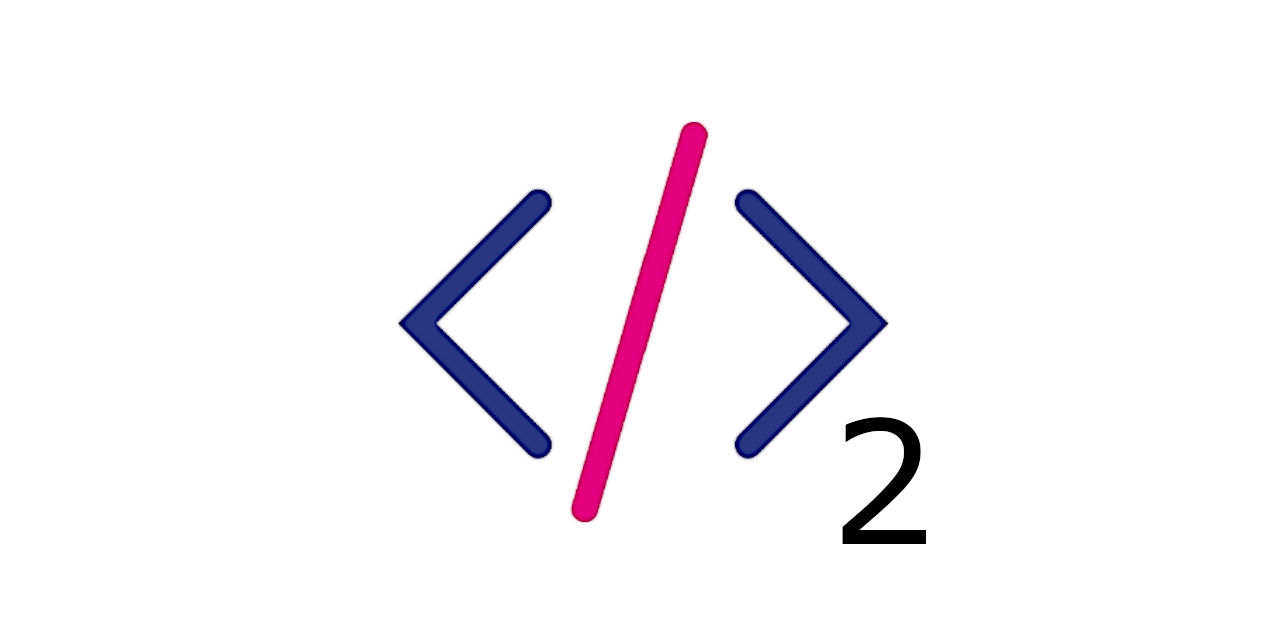
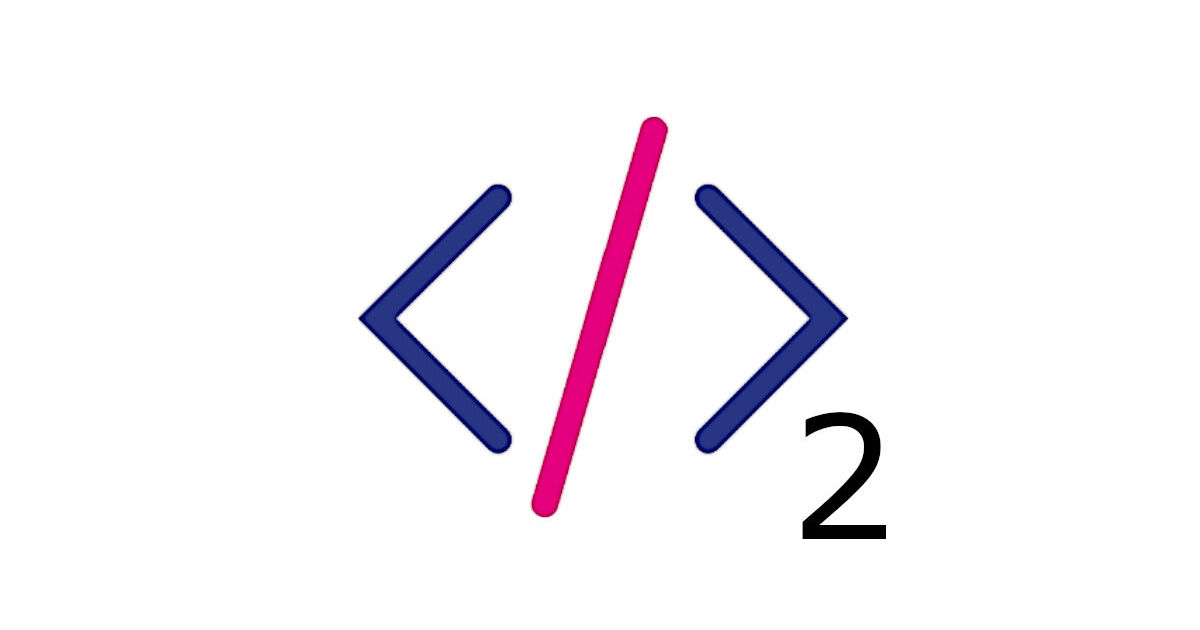
deploy: 92d0277676dddbe33116f37bbe91f00d559ef674

Changed region(s): [[0.4933, 0.181, 0.74, 0.8746], [0.2775, 0.2714, 0.4933, 0.8444], [0.4933, 0.4222, 0.5242, 0.4825]]

diff --git a/metadata/index.html b/metadata/index.html
@@ -1,0 +1,95 @@
+<!DOCTYPE html>
+<html lang="cs">
+	<head>
+		<meta charset="UTF-8">
+		<meta name="viewport" content="width=device-width, initial-scale=1.0">
+		<base href="/HTML-a-CSS-2/">
+		<title>
+			HTML a CSS 2
+		</title>
+		<meta name="description" content="Podklady pro online kurz HTML a CSS 2 od Czechitas.">
+		<link rel="stylesheet" href="static/main.css">
+		<link rel="icon" type="image/png" href="static/favicon.png" sizes="64x64">
+		<link href="https://unpkg.com/prismjs@1.20.0/themes/prism-okaidia.css" rel="stylesheet">
+		<meta property="og:image" content="https://czechitas-podklady-web.github.io/HTML-a-CSS-2/static/og-image.jpg"/>
+		<meta property="og:image:width" content="1200"/>
+		<meta property="og:image:height" content="630"/>
+	</head>
+	<body>
+		<div class="layout">
+			<header class="header">
+				<h1>
+					<a href="" class="header__link">
+						<img src="static/logo.png" width="206" height="60" alt="logo Czechitas">
+						<span>HTML a CSS 2</span>
+					</a>
+				</h1>
+			</header>
+			<main>
+				<h1>Metadata</h1>
+<p>Do hlavičky <code>&lt;head&gt;</code> přidáváme mimo jiné různé doprovodné informace, které slouží pro lepší prezentaci stránky mimo viewport, který zobrazuje obsah <code>&lt;body&gt;</code>.</p>
+<h2>Název</h2>
+<p>Hlavní text, který se ukazuje ve výsledcích vyhledávání, při sdílení, v záložkách.</p>
+<pre class="language-html"><code class="language-html"><span class="token tag"><span class="token tag"><span class="token punctuation">&lt;</span>title</span><span class="token punctuation">></span></span>Název webu<span class="token tag"><span class="token tag"><span class="token punctuation">&lt;/</span>title</span><span class="token punctuation">></span></span></code></pre>
+<h2>Favicon</h2>
+<p>Malá ikonka ukazující se vedle názvu.</p>
+<pre class="language-html"><code class="language-html"><span class="token tag"><span class="token tag"><span class="token punctuation">&lt;</span>link</span> <span class="token attr-name">rel</span><span class="token attr-value"><span class="token punctuation attr-equals">=</span><span class="token punctuation">"</span>shortcut icon<span class="token punctuation">"</span></span> <span class="token attr-name">href</span><span class="token attr-value"><span class="token punctuation attr-equals">=</span><span class="token punctuation">"</span>favicon.ico<span class="token punctuation">"</span></span> <span class="token attr-name">type</span><span class="token attr-value"><span class="token punctuation attr-equals">=</span><span class="token punctuation">"</span>image/x-icon<span class="token punctuation">"</span></span> <span class="token punctuation">/></span></span></code></pre>
+<p>Moderní prohlížeče pro favicon podporují už i <a href="https://caniuse.com/link-icon-png">PNG</a> a některé dokonce <a href="https://caniuse.com/link-icon-svg">SVG</a>.</p>
+<h2>Popis</h2>
+<p>Stručné shrnutí obsahu webu. Ukazuje se při sdílení, v některých vyhledávačích.</p>
+<pre class="language-html"><code class="language-html"><span class="token tag"><span class="token tag"><span class="token punctuation">&lt;</span>meta</span> <span class="token attr-name">name</span><span class="token attr-value"><span class="token punctuation attr-equals">=</span><span class="token punctuation">"</span>description<span class="token punctuation">"</span></span> <span class="token attr-name">content</span><span class="token attr-value"><span class="token punctuation attr-equals">=</span><span class="token punctuation">"</span>Popis dlouhý přibližně 50 až 160 znaků.<span class="token punctuation">"</span></span> <span class="token punctuation">/></span></span></code></pre>
+<h2>Obrázek</h2>
+<p>Doprovodný obrázek pro sdílení. Doporučený poměr stran je <code>2:1</code>. Pro <a href="https://developers.facebook.com/docs/sharing/webmasters/images/">Facebook</a> pak rozlišení <code>1200 x 630</code>.</p>
+<pre class="language-html"><code class="language-html"><span class="token tag"><span class="token tag"><span class="token punctuation">&lt;</span>meta</span><br>	<span class="token attr-name">property</span><span class="token attr-value"><span class="token punctuation attr-equals">=</span><span class="token punctuation">"</span>og:image<span class="token punctuation">"</span></span><br>	<span class="token attr-name">content</span><span class="token attr-value"><span class="token punctuation attr-equals">=</span><span class="token punctuation">"</span>https://czechitas-podklady-web.github.io/HTML-a-CSS-2/static/og-image.jpg<span class="token punctuation">"</span></span><br><span class="token punctuation">/></span></span></code></pre>
+<p>Adresu obrázku je spolehlivější psát celou i s doménou a protokolem (<code>http*</code>). Některé sociální sítě, chatovací aplikace si bez toho obrázek neumí načíst. Aby se mohli rychleji přizpůsobit rozměrům obrázku, je vhodné předchozí meta tag doplnit ještě o dva doplňkové s rozměry.</p>
+<pre class="language-html"><code class="language-html"><span class="token tag"><span class="token tag"><span class="token punctuation">&lt;</span>meta</span> <span class="token attr-name">property</span><span class="token attr-value"><span class="token punctuation attr-equals">=</span><span class="token punctuation">"</span>og:image:width<span class="token punctuation">"</span></span> <span class="token attr-name">content</span><span class="token attr-value"><span class="token punctuation attr-equals">=</span><span class="token punctuation">"</span>1200<span class="token punctuation">"</span></span> <span class="token punctuation">/></span></span><br><span class="token tag"><span class="token tag"><span class="token punctuation">&lt;</span>meta</span> <span class="token attr-name">property</span><span class="token attr-value"><span class="token punctuation attr-equals">=</span><span class="token punctuation">"</span>og:image:height<span class="token punctuation">"</span></span> <span class="token attr-name">content</span><span class="token attr-value"><span class="token punctuation attr-equals">=</span><span class="token punctuation">"</span>630<span class="token punctuation">"</span></span> <span class="token punctuation">/></span></span></code></pre>
+<h2>Úkol na teď</h2>
+<ul>
+<li>
+<p>Přidej do projektu meta tagy pro lepší sdílení webu na sociálních sítích.</p>
+<ul>
+<li>
+<p>Pokračuj v libovolném projektu postaveném na Eleventy nasazeném na Netlify.</p>
+</li>
+<li>
+<p>Přichystej si obrázek pro <code>og:image</code>. Použij tvůj vlastní nebo si nějaký stáhni třeba na <a href="https://unsplash.com/">unsplash.com</a>.</p>
+</li>
+<li>
+<p>Ořízni ho do doporučených rozměrů. Pro ořez můžeš použít <a href="https://squoosh.app/">squoosh.app</a> nebo jiný editor.</p>
+</li>
+<li>
+<p>Do layoutu společného pro všechny stránky mezi značky <code>&lt;head&gt;</code> přidej odkaz na obrázek z kroků výše.</p>
+</li>
+<li>
+<p>Přidej ještě textový popis webu, <code>description</code>. Obsah vymysli vlastní vhodný pro konkrétní projekt nebo použij následující: <code>Zkušební popis webu pro otestování sdílení na sociálních sítích.</code></p>
+</li>
+</ul>
+</li>
+<li>
+<p>Změny commitni, pushni a počkej, až se nasadí.</p>
+</li>
+<li>
+<p>Otestuj, že se obrázek a popis při sdílení ukazuje.</p>
+<ul>
+<li>
+<p>Můžeš například na Facebooku pro test sdílet příspěvek, který uvidíš jenom ty. Po vyzkoušení ho klidně smaž. Nebo si ve zprávách pošli odkaz sama sobě.</p>
+<p><img src="static/screenshots/facebook-og-image.png" alt="Facebook og:image"></p>
+</li>
+<li>
+<p>Občas se stává, že při prvním sdílení se obrázek hned neukáže. Pokud je to tvůj případ, ověř, že ho Facebook najde alespoň v nástroji <a href="https://developers.facebook.com/tools/debug/">Sharing Debugger</a>.</p>
+</li>
+<li>
+<p>Pro znovunačtení nejaktuálnějších informací o tvém webu použij tlačítko <code>Scrape Again</code>. Hodí se v situaci, kdy obrázek při vývoji často měníš.</p>
+<p><img src="static/screenshots/facebook-scrape-again.png" alt="Facebook scrape again"></p>
+</li>
+</ul>
+</li>
+</ul>
+
+			</main>
+			<footer class="layout__footer">
+				© 2021 <a href="https://www.czechitas.cz/">Czechitas z.ú.</a>
+			</footer>
+		</div>
+	</body>
+</html>

diff --git a/data-v-eleventy-2/index.html b/data-v-eleventy-2/index.html
@@ -7,10 +7,13 @@
 		<title>
 			HTML a CSS 2
 		</title>
+		<meta name="description" content="Podklady pro online kurz HTML a CSS 2 od Czechitas.">
 		<link rel="stylesheet" href="static/main.css">
 		<link rel="icon" type="image/png" href="static/favicon.png" sizes="64x64">
 		<link href="https://unpkg.com/prismjs@1.20.0/themes/prism-okaidia.css" rel="stylesheet">
 		<meta property="og:image" content="https://czechitas-podklady-web.github.io/HTML-a-CSS-2/static/og-image.jpg"/>
+		<meta property="og:image:width" content="1200"/>
+		<meta property="og:image:height" content="630"/>
 	</head>
 	<body>
 		<div class="layout">
@@ -50,11 +53,6 @@
 <pre class="language-html"><code class="language-html"><span class="token tag"><span class="token tag"><span class="token punctuation">&lt;</span>div</span><span class="token punctuation">></span></span>Sci-Fi, Komedie, Romantický<span class="token tag"><span class="token tag"><span class="token punctuation">&lt;/</span>div</span><span class="token punctuation">></span></span><br><span class="token tag"><span class="token tag"><span class="token punctuation">&lt;</span>div</span><span class="token punctuation">></span></span>Sci-Fi / Komedie / Romantický<span class="token tag"><span class="token tag"><span class="token punctuation">&lt;/</span>div</span><span class="token punctuation">></span></span></code></pre>
 <h2>Další filtry</h2>
 <p>Všechny zabudované filtry do nunjucks jsou popsané v dokumentaci <a href="https://mozilla.github.io/nunjucks/templating.html#builtin-filters">zde</a>.</p>
-<h2>Podmínky</h2>
-<p>Pokud chceme na stránce vypsat kus HTML jen v případě, že platí nějaká podmínka, použijeme <code>{% if %}</code>.</p>
-<pre class="language-liquid"><code class="language-liquid"><span class="token liquid language-liquid"><span class="token delimiter punctuation">{%</span> <span class="token keyword">if</span> film<span class="token punctuation">.</span>rokNatoceni <span class="token operator">==</span> <span class="token number">2021</span> <span class="token delimiter punctuation">%}</span></span><br>	<span class="token tag"><span class="token tag"><span class="token punctuation">&lt;</span>div</span><span class="token punctuation">></span></span>Film byl natočen letos<span class="token tag"><span class="token tag"><span class="token punctuation">&lt;/</span>div</span><span class="token punctuation">></span></span><br><span class="token liquid language-liquid"><span class="token delimiter punctuation">{%</span> <span class="token keyword">endif</span> <span class="token delimiter punctuation">%}</span></span></code></pre>
-<p>Pokud chceme vypsat něco jiného v případě, že podmínka neplatí, doplníme zápis o větev <code>{% else %}</code>. Podmínku můžeme kombinovat i s filtry.</p>
-<pre class="language-liquid"><code class="language-liquid"><span class="token liquid language-liquid"><span class="token delimiter punctuation">{%</span> <span class="token keyword">if</span> filmy <span class="token operator">|</span> <span class="token function filter">length</span> <span class="token operator">></span> <span class="token number">0</span> <span class="token delimiter punctuation">%}</span></span><br>	<span class="token tag"><span class="token tag"><span class="token punctuation">&lt;</span>h2</span><span class="token punctuation">></span></span>Výpis filmů<span class="token tag"><span class="token tag"><span class="token punctuation">&lt;/</span>h2</span><span class="token punctuation">></span></span><br>	<span class="token tag"><span class="token tag"><span class="token punctuation">&lt;</span>ul</span><span class="token punctuation">></span></span><br>		<span class="token liquid language-liquid"><span class="token delimiter punctuation">{%</span> <span class="token keyword">for</span> film <span class="token keyword">in</span> filmy <span class="token delimiter punctuation">%}</span></span><br>			<span class="token tag"><span class="token tag"><span class="token punctuation">&lt;</span>li</span><span class="token punctuation">></span></span><br>				<span class="token liquid language-liquid"><span class="token delimiter punctuation">{{</span> film<span class="token punctuation">.</span>nazev <span class="token delimiter punctuation">}}</span></span><br>			<span class="token tag"><span class="token tag"><span class="token punctuation">&lt;/</span>li</span><span class="token punctuation">></span></span><br>		<span class="token liquid language-liquid"><span class="token delimiter punctuation">{%</span> <span class="token keyword">endfor</span> <span class="token delimiter punctuation">%}</span></span><br>	<span class="token tag"><span class="token tag"><span class="token punctuation">&lt;/</span>ul</span><span class="token punctuation">></span></span><br><span class="token liquid language-liquid"><span class="token delimiter punctuation">{%</span> <span class="token keyword">else</span> <span class="token delimiter punctuation">%}</span></span><br>	<span class="token tag"><span class="token tag"><span class="token punctuation">&lt;</span>div</span><span class="token punctuation">></span></span>V kolekci není ani jedna položka.<span class="token tag"><span class="token tag"><span class="token punctuation">&lt;/</span>div</span><span class="token punctuation">></span></span><br><span class="token liquid language-liquid"><span class="token delimiter punctuation">{%</span> <span class="token keyword">endif</span> <span class="token delimiter punctuation">%}</span></span></code></pre>
 <h2>Přejmenování proměnné</h2>
 <p>Pomocí <code>{% set %}</code> můžeme vytvářet nové proměnné, které dokonce můžou vycházet z již existujících.</p>
 <pre class="language-liquid"><code class="language-liquid"><span class="token liquid language-liquid"><span class="token delimiter punctuation">{%</span> set nejoblibenejsiCislo <span class="token operator">=</span> <span class="token number">12</span> <span class="token delimiter punctuation">%}</span></span><br><span class="token tag"><span class="token tag"><span class="token punctuation">&lt;</span>div</span><span class="token punctuation">></span></span>Nejoblíbenější číslo je: <span class="token liquid language-liquid"><span class="token delimiter punctuation">{{</span> nejoblibenejsiCislo <span class="token delimiter punctuation">}}</span></span><span class="token tag"><span class="token tag"><span class="token punctuation">&lt;/</span>div</span><span class="token punctuation">></span></span><br><br><span class="token liquid language-liquid"><span class="token delimiter punctuation">{%</span> set filmy <span class="token operator">=</span> noveFilmy <span class="token delimiter punctuation">%}</span></span><br><span class="token tag"><span class="token tag"><span class="token punctuation">&lt;</span>h2</span><span class="token punctuation">></span></span>Nové filmy<span class="token tag"><span class="token tag"><span class="token punctuation">&lt;/</span>h2</span><span class="token punctuation">></span></span><br><span class="token tag"><span class="token tag"><span class="token punctuation">&lt;</span>ul</span><span class="token punctuation">></span></span><br>	<span class="token liquid language-liquid"><span class="token delimiter punctuation">{%</span> <span class="token keyword">for</span> film <span class="token keyword">in</span> filmy <span class="token delimiter punctuation">%}</span></span><br>		<span class="token tag"><span class="token tag"><span class="token punctuation">&lt;</span>li</span><span class="token punctuation">></span></span><br>			<span class="token liquid language-liquid"><span class="token delimiter punctuation">{{</span> film <span class="token delimiter punctuation">}}</span></span><br>		<span class="token tag"><span class="token tag"><span class="token punctuation">&lt;/</span>li</span><span class="token punctuation">></span></span><br>	<span class="token liquid language-liquid"><span class="token delimiter punctuation">{%</span> <span class="token keyword">endfor</span> <span class="token delimiter punctuation">%}</span></span><br><span class="token tag"><span class="token tag"><span class="token punctuation">&lt;/</span>ul</span><span class="token punctuation">></span></span></code></pre>

diff --git a/nunjucks-podminky/index.html b/nunjucks-podminky/index.html
@@ -1,0 +1,43 @@
+<!DOCTYPE html>
+<html lang="cs">
+	<head>
+		<meta charset="UTF-8">
+		<meta name="viewport" content="width=device-width, initial-scale=1.0">
+		<base href="/HTML-a-CSS-2/">
+		<title>
+			HTML a CSS 2
+		</title>
+		<meta name="description" content="Podklady pro online kurz HTML a CSS 2 od Czechitas.">
+		<link rel="stylesheet" href="static/main.css">
+		<link rel="icon" type="image/png" href="static/favicon.png" sizes="64x64">
+		<link href="https://unpkg.com/prismjs@1.20.0/themes/prism-okaidia.css" rel="stylesheet">
+		<meta property="og:image" content="https://czechitas-podklady-web.github.io/HTML-a-CSS-2/static/og-image.jpg"/>
+		<meta property="og:image:width" content="1200"/>
+		<meta property="og:image:height" content="630"/>
+	</head>
+	<body>
+		<div class="layout">
+			<header class="header">
+				<h1>
+					<a href="" class="header__link">
+						<img src="static/logo.png" width="206" height="60" alt="logo Czechitas">
+						<span>HTML a CSS 2</span>
+					</a>
+				</h1>
+			</header>
+			<main>
+				<h1>Nunjucks podmínky</h1>
+<p>Pokud chceme na stránce vypsat kus HTML jen v případě, že platí nějaká podmínka, použijeme <code>{% if %}</code>.</p>
+<pre class="language-liquid"><code class="language-liquid"><span class="token liquid language-liquid"><span class="token delimiter punctuation">{%</span> <span class="token keyword">if</span> film<span class="token punctuation">.</span>rokNatoceni <span class="token operator">==</span> <span class="token number">2021</span> <span class="token delimiter punctuation">%}</span></span><br>	<span class="token tag"><span class="token tag"><span class="token punctuation">&lt;</span>div</span><span class="token punctuation">></span></span>Film byl natočen letos<span class="token tag"><span class="token tag"><span class="token punctuation">&lt;/</span>div</span><span class="token punctuation">></span></span><br><span class="token liquid language-liquid"><span class="token delimiter punctuation">{%</span> <span class="token keyword">endif</span> <span class="token delimiter punctuation">%}</span></span></code></pre>
+<p>Dvojité rovná se <code>==</code> je zde záměrně. Stejně jako v jiných programovacích jazycích i zde plní roli porovnání. Samotné <code>=</code> slouží k přiřazení nové hodnoty.</p>
+<p>Pokud chceme vypsat něco jiného v případě, že podmínka neplatí, doplníme zápis o větev <code>{% else %}</code>. Podmínku můžeme kombinovat i s filtry.</p>
+<pre class="language-liquid"><code class="language-liquid"><span class="token liquid language-liquid"><span class="token delimiter punctuation">{%</span> <span class="token keyword">if</span> filmy <span class="token operator">|</span> <span class="token function filter">length</span> <span class="token operator">></span> <span class="token number">0</span> <span class="token delimiter punctuation">%}</span></span><br>	<span class="token tag"><span class="token tag"><span class="token punctuation">&lt;</span>h2</span><span class="token punctuation">></span></span>Výpis filmů<span class="token tag"><span class="token tag"><span class="token punctuation">&lt;/</span>h2</span><span class="token punctuation">></span></span><br>	<span class="token tag"><span class="token tag"><span class="token punctuation">&lt;</span>ul</span><span class="token punctuation">></span></span><br>		<span class="token liquid language-liquid"><span class="token delimiter punctuation">{%</span> <span class="token keyword">for</span> film <span class="token keyword">in</span> filmy <span class="token delimiter punctuation">%}</span></span><br>			<span class="token tag"><span class="token tag"><span class="token punctuation">&lt;</span>li</span><span class="token punctuation">></span></span><br>				<span class="token liquid language-liquid"><span class="token delimiter punctuation">{{</span> film<span class="token punctuation">.</span>nazev <span class="token delimiter punctuation">}}</span></span><br>			<span class="token tag"><span class="token tag"><span class="token punctuation">&lt;/</span>li</span><span class="token punctuation">></span></span><br>		<span class="token liquid language-liquid"><span class="token delimiter punctuation">{%</span> <span class="token keyword">endfor</span> <span class="token delimiter punctuation">%}</span></span><br>	<span class="token tag"><span class="token tag"><span class="token punctuation">&lt;/</span>ul</span><span class="token punctuation">></span></span><br><span class="token liquid language-liquid"><span class="token delimiter punctuation">{%</span> <span class="token keyword">else</span> <span class="token delimiter punctuation">%}</span></span><br>	<span class="token tag"><span class="token tag"><span class="token punctuation">&lt;</span>div</span><span class="token punctuation">></span></span>V kolekci není ani jedna položka.<span class="token tag"><span class="token tag"><span class="token punctuation">&lt;/</span>div</span><span class="token punctuation">></span></span><br><span class="token liquid language-liquid"><span class="token delimiter punctuation">{%</span> <span class="token keyword">endif</span> <span class="token delimiter punctuation">%}</span></span></code></pre>
+<p>Více ukázek použití je v <a href="https://mozilla.github.io/nunjucks/templating.html#if">dokumentaci</a>.</p>
+
+			</main>
+			<footer class="layout__footer">
+				© 2021 <a href="https://www.czechitas.cz/">Czechitas z.ú.</a>
+			</footer>
+		</div>
+	</body>
+</html>

diff --git a/google-analytics/index.html b/google-analytics/index.html
@@ -7,10 +7,13 @@
 		<title>
 			HTML a CSS 2
 		</title>
+		<meta name="description" content="Podklady pro online kurz HTML a CSS 2 od Czechitas.">
 		<link rel="stylesheet" href="static/main.css">
 		<link rel="icon" type="image/png" href="static/favicon.png" sizes="64x64">
 		<link href="https://unpkg.com/prismjs@1.20.0/themes/prism-okaidia.css" rel="stylesheet">
 		<meta property="og:image" content="https://czechitas-podklady-web.github.io/HTML-a-CSS-2/static/og-image.jpg"/>
+		<meta property="og:image:width" content="1200"/>
+		<meta property="og:image:height" content="630"/>
 	</head>
 	<body>
 		<div class="layout">
@@ -37,6 +40,42 @@
 <p>Pro použití je nutné se přihlásit do <a href="https://analytics.google.com/">analytics.google.com</a> a tam vytvořit účet pro konktrétní web. Průvodce nastavením vygeneruje kus kódu (<code>Tracking Code</code>), který je potřeba vložit do všech podstránek příslušného webu. Sledovací kód vypadá většinou takto:</p>
 <pre class="language-html"><code class="language-html"><span class="token comment">&lt;!-- Global site tag (gtag.js) - Google Analytics --></span><br><span class="token tag"><span class="token tag"><span class="token punctuation">&lt;</span>script</span><br>	<span class="token attr-name">async</span><br>	<span class="token attr-name">src</span><span class="token attr-value"><span class="token punctuation attr-equals">=</span><span class="token punctuation">"</span>https://www.googletagmanager.com/gtag/js?id=UA-148856199-1<span class="token punctuation">"</span></span><br><span class="token punctuation">></span></span><span class="token script"></span><span class="token tag"><span class="token tag"><span class="token punctuation">&lt;/</span>script</span><span class="token punctuation">></span></span><br><span class="token tag"><span class="token tag"><span class="token punctuation">&lt;</span>script</span><span class="token punctuation">></span></span><span class="token script"><span class="token language-javascript"><br>	window<span class="token punctuation">.</span>dataLayer <span class="token operator">=</span> window<span class="token punctuation">.</span>dataLayer <span class="token operator">||</span> <span class="token punctuation">[</span><span class="token punctuation">]</span><br>	<span class="token keyword">function</span> <span class="token function">gtag</span><span class="token punctuation">(</span><span class="token punctuation">)</span> <span class="token punctuation">{</span><br>		dataLayer<span class="token punctuation">.</span><span class="token function">push</span><span class="token punctuation">(</span>arguments<span class="token punctuation">)</span><br>	<span class="token punctuation">}</span><br>	<span class="token function">gtag</span><span class="token punctuation">(</span><span class="token string">'js'</span><span class="token punctuation">,</span> <span class="token keyword">new</span> <span class="token class-name">Date</span><span class="token punctuation">(</span><span class="token punctuation">)</span><span class="token punctuation">)</span><br><br>	<span class="token function">gtag</span><span class="token punctuation">(</span><span class="token string">'config'</span><span class="token punctuation">,</span> <span class="token string">'UA-000000000-0'</span><span class="token punctuation">)</span><br></span></span><span class="token tag"><span class="token tag"><span class="token punctuation">&lt;/</span>script</span><span class="token punctuation">></span></span></code></pre>
 <p><code>UA-000000000-0</code> je identifikátor konkrétního účtu.</p>
+<h2>Úkol na teď</h2>
+<ul>
+<li>
+<p>Vyber si jeden z projektů, který máš na GitHubu postavený na Eleventy a ideálně už nasazený na Netlify. Například <code>Cviceni-Eleventy-struktura</code>, <code>Cviceni-Eleventy-galerie</code>, (<code>Cviceni-Eleventy-filmy</code>). Případně projekt donasaď podle instrukcí <a href="netlify-deploy">zde</a>.</p>
+</li>
+<li>
+<p>Přihlaš se do <a href="https://analytics.google.com/">Google Analytics</a> a přidej nový web pro měření.</p>
+</li>
+<li>
+<p>Vygenerovaný sledovací kód přidej do layoutu webu tak, aby byl ve všech podstránkách.</p>
+</li>
+<li>
+<p>Upravený web nasaď. (Commitni a pushni.)</p>
+</li>
+<li>
+<p>Počkej, než se nový kód sestaví a zveřejní. Průběh můžeš sledovat na <a href="https://www.netlify.com/">Netlify</a>.</p>
+</li>
+<li>
+<p>Otevři si nasazený web v prohlížeči. Pokud můžeš, tak třeba i na telefonu.</p>
+</li>
+<li>
+<p>Koukni, jestli Google Analytics v sekci <code>Realtime</code> zaznamenaly tvou návštěvu. (Může se objevit s přibližně minutovým zpožděním. Pravděpodobně se neukáže, pokud máš aktivovaný blokátor jako je Adblock nebo uBlock, používáš prohlížeč Brave.)</p>
+</li>
+<li>
+<p>Aby nasbíraná data byla bohatší, nasdílej v chatu v breakout roomu adresu tvého webu a zároveň si otevři weby ostatních.</p>
+</li>
+</ul>
+<h3>Bonus</h3>
+<ul>
+<li>
+<p>Prohlédni si o pár dní později záložku <code>Reports snapshot</code>.</p>
+</li>
+<li>
+<p>Pokud chceš nahlédnout i do Google Analytics webu s materiály pro HTML a CSS 2, pošli e-mail bez textu na adresu <code>filip.chalupa@czechitas.cz</code> s předmětem <code>Google Analytics</code>. Zprávu odešli z účtu, na kterém Google Analytics používáš.</p>
+</li>
+</ul>
 
 			</main>
 			<footer class="layout__footer">

diff --git a/ovladaci-panel-vyhledavace/index.html b/ovladaci-panel-vyhledavace/index.html
@@ -1,0 +1,59 @@
+<!DOCTYPE html>
+<html lang="cs">
+	<head>
+		<meta charset="UTF-8">
+		<meta name="viewport" content="width=device-width, initial-scale=1.0">
+		<base href="/HTML-a-CSS-2/">
+		<title>
+			HTML a CSS 2
+		</title>
+		<meta name="description" content="Podklady pro online kurz HTML a CSS 2 od Czechitas.">
+		<link rel="stylesheet" href="static/main.css">
+		<link rel="icon" type="image/png" href="static/favicon.png" sizes="64x64">
+		<link href="https://unpkg.com/prismjs@1.20.0/themes/prism-okaidia.css" rel="stylesheet">
+		<meta property="og:image" content="https://czechitas-podklady-web.github.io/HTML-a-CSS-2/static/og-image.jpg"/>
+		<meta property="og:image:width" content="1200"/>
+		<meta property="og:image:height" content="630"/>
+	</head>
+	<body>
+		<div class="layout">
+			<header class="header">
+				<h1>
+					<a href="" class="header__link">
+						<img src="static/logo.png" width="206" height="60" alt="logo Czechitas">
+						<span>HTML a CSS 2</span>
+					</a>
+				</h1>
+			</header>
+			<main>
+				<h1>Ovládací panel vyhledávače</h1>
+<p>Pokud zveřejňujeme web, většinou chceme, aby byl snadno dohledatelný pro případ, že někdo například nezná adresu. Pro kontrolu, že je web pro vyhledávače dobře úzpůsobený, určitě stojí za to ho zkusit vyhledat na <a href="https://www.seznam.cz/">Seznamu</a>, <a href="https://www.google.com/">Googlu</a>.</p>
+<p>Typicky čerstvě spuštěný web nemusí být hned dohledatelný. Aby se do vyhledávačů dostal, musí na něj odkazovat jiné veřejné weby nebo jej můžeme přidat ručně z ovladacího panelu dané služby.</p>
+<p>Pro zveřejnění odkazu muže posloužit popisek repozitáře na GitHubu nebo zmínka na spřáteleném webu.</p>
+<p><img src="static/screenshots/github-about-url.png" alt="GitHub about url"></p>
+<h2>Seznam</h2>
+<p><a href="https://reporter.seznam.cz/wm/">Webmaster beta</a></p>
+<h2>Google</h2>
+<p><a href="https://search.google.com/search-console">Google Search Console</a></p>
+<h2>Co když má web hodně podstránek, na které se nikde neodkazuje</h2>
+<p>Jako nápověda o struktuře webu a jak často se jednotlivé stránky aktualizují může posloužit soubor <code>sitemap.xml</code>, o kterém je napsáno více například na <a href="https://jecas.cz/sitemap">jecas.cz</a>.</p>
+<h2>Jak naopak skrýt web před vyhledávači</h2>
+<ul>
+<li>
+<p>Nikde na něj neodkazovat. 🤔</p>
+</li>
+<li>
+<p>Tagem v hlavičce <code>&lt;meta name=&quot;robots&quot; content=&quot;noindex, nofollow&quot;&gt;</code>.</p>
+</li>
+<li>
+<p>Souborem <code>robots.txt</code>. O jeho obsahu více obsahu například na <a href="https://www.jakpsatweb.cz/robots-txt.html">jakpsatweb.cz</a>.</p>
+</li>
+</ul>
+
+			</main>
+			<footer class="layout__footer">
+				© 2021 <a href="https://www.czechitas.cz/">Czechitas z.ú.</a>
+			</footer>
+		</div>
+	</body>
+</html>

diff --git a/index.html b/index.html
@@ -7,10 +7,13 @@
 		<title>
 			HTML a CSS 2
 		</title>
+		<meta name="description" content="Podklady pro online kurz HTML a CSS 2 od Czechitas.">
 		<link rel="stylesheet" href="static/main.css">
 		<link rel="icon" type="image/png" href="static/favicon.png" sizes="64x64">
 		<link href="https://unpkg.com/prismjs@1.20.0/themes/prism-okaidia.css" rel="stylesheet">
 		<meta property="og:image" content="https://czechitas-podklady-web.github.io/HTML-a-CSS-2/static/og-image.jpg"/>
+		<meta property="og:image:width" content="1200"/>
+		<meta property="og:image:height" content="630"/>
 	</head>
 	<body>
 		<div class="layout">
@@ -87,6 +90,18 @@
 <li><a href="domaci-ukol-4">Zadání domácího úkolu (4)</a></li>
 </ul>
 <!-- - [Netlify CMS](netlify-cms) -->
+<h3>10. lekce 16. listopadu 2021</h3>
+<ul>
+<li><a href="ovladaci-panel-vyhledavace">Ovládací panel vyhledávače</a></li>
+<li><a href="google-analytics">Google Analytics</a></li>
+<li><a href="metadata">Metadata</a></li>
+<li><a href="nunjucks-podminky">Nunjucks podmínky (dobrovolné)</a></li>
+</ul>
+<!--
+### 11. lekce 23. listopadu 2021
+
+### 12. lekce 30. listopadu 2021
+-->
 
 			</main>
 			<footer class="layout__footer">

diff --git a/BEM/index.html b/BEM/index.html
@@ -7,10 +7,13 @@
 		<title>
 			HTML a CSS 2
 		</title>
+		<meta name="description" content="Podklady pro online kurz HTML a CSS 2 od Czechitas.">
 		<link rel="stylesheet" href="static/main.css">
 		<link rel="icon" type="image/png" href="static/favicon.png" sizes="64x64">
 		<link href="https://unpkg.com/prismjs@1.20.0/themes/prism-okaidia.css" rel="stylesheet">
 		<meta property="og:image" content="https://czechitas-podklady-web.github.io/HTML-a-CSS-2/static/og-image.jpg"/>
+		<meta property="og:image:width" content="1200"/>
+		<meta property="og:image:height" content="630"/>
 	</head>
 	<body>
 		<div class="layout">

diff --git a/css-grid-2/index.html b/css-grid-2/index.html
@@ -7,10 +7,13 @@
 		<title>
 			HTML a CSS 2
 		</title>
+		<meta name="description" content="Podklady pro online kurz HTML a CSS 2 od Czechitas.">
 		<link rel="stylesheet" href="static/main.css">
 		<link rel="icon" type="image/png" href="static/favicon.png" sizes="64x64">
 		<link href="https://unpkg.com/prismjs@1.20.0/themes/prism-okaidia.css" rel="stylesheet">
 		<meta property="og:image" content="https://czechitas-podklady-web.github.io/HTML-a-CSS-2/static/og-image.jpg"/>
+		<meta property="og:image:width" content="1200"/>
+		<meta property="og:image:height" content="630"/>
 	</head>
 	<body>
 		<div class="layout">

diff --git a/css-grid-responzivni/index.html b/css-grid-responzivni/index.html
@@ -7,10 +7,13 @@
 		<title>
 			HTML a CSS 2
 		</title>
+		<meta name="description" content="Podklady pro online kurz HTML a CSS 2 od Czechitas.">
 		<link rel="stylesheet" href="static/main.css">
 		<link rel="icon" type="image/png" href="static/favicon.png" sizes="64x64">
 		<link href="https://unpkg.com/prismjs@1.20.0/themes/prism-okaidia.css" rel="stylesheet">
 		<meta property="og:image" content="https://czechitas-podklady-web.github.io/HTML-a-CSS-2/static/og-image.jpg"/>
+		<meta property="og:image:width" content="1200"/>
+		<meta property="og:image:height" content="630"/>
 	</head>
 	<body>
 		<div class="layout">

diff --git a/css-grid-zarovnani/index.html b/css-grid-zarovnani/index.html
@@ -7,10 +7,13 @@
 		<title>
 			HTML a CSS 2
 		</title>
+		<meta name="description" content="Podklady pro online kurz HTML a CSS 2 od Czechitas.">
 		<link rel="stylesheet" href="static/main.css">
 		<link rel="icon" type="image/png" href="static/favicon.png" sizes="64x64">
 		<link href="https://unpkg.com/prismjs@1.20.0/themes/prism-okaidia.css" rel="stylesheet">
 		<meta property="og:image" content="https://czechitas-podklady-web.github.io/HTML-a-CSS-2/static/og-image.jpg"/>
+		<meta property="og:image:width" content="1200"/>
+		<meta property="og:image:height" content="630"/>
 	</head>
 	<body>
 		<div class="layout">

diff --git a/css-grid/index.html b/css-grid/index.html
@@ -7,10 +7,13 @@
 		<title>
 			HTML a CSS 2
 		</title>
+		<meta name="description" content="Podklady pro online kurz HTML a CSS 2 od Czechitas.">
 		<link rel="stylesheet" href="static/main.css">
 		<link rel="icon" type="image/png" href="static/favicon.png" sizes="64x64">
 		<link href="https://unpkg.com/prismjs@1.20.0/themes/prism-okaidia.css" rel="stylesheet">
 		<meta property="og:image" content="https://czechitas-podklady-web.github.io/HTML-a-CSS-2/static/og-image.jpg"/>
+		<meta property="og:image:width" content="1200"/>
+		<meta property="og:image:height" content="630"/>
 	</head>
 	<body>
 		<div class="layout">

diff --git a/css-jednotky/index.html b/css-jednotky/index.html
@@ -7,10 +7,13 @@
 		<title>
 			HTML a CSS 2
 		</title>
+		<meta name="description" content="Podklady pro online kurz HTML a CSS 2 od Czechitas.">
 		<link rel="stylesheet" href="static/main.css">
 		<link rel="icon" type="image/png" href="static/favicon.png" sizes="64x64">
 		<link href="https://unpkg.com/prismjs@1.20.0/themes/prism-okaidia.css" rel="stylesheet">
 		<meta property="og:image" content="https://czechitas-podklady-web.github.io/HTML-a-CSS-2/static/og-image.jpg"/>
+		<meta property="og:image:width" content="1200"/>
+		<meta property="og:image:height" content="630"/>
 	</head>
 	<body>
 		<div class="layout">
